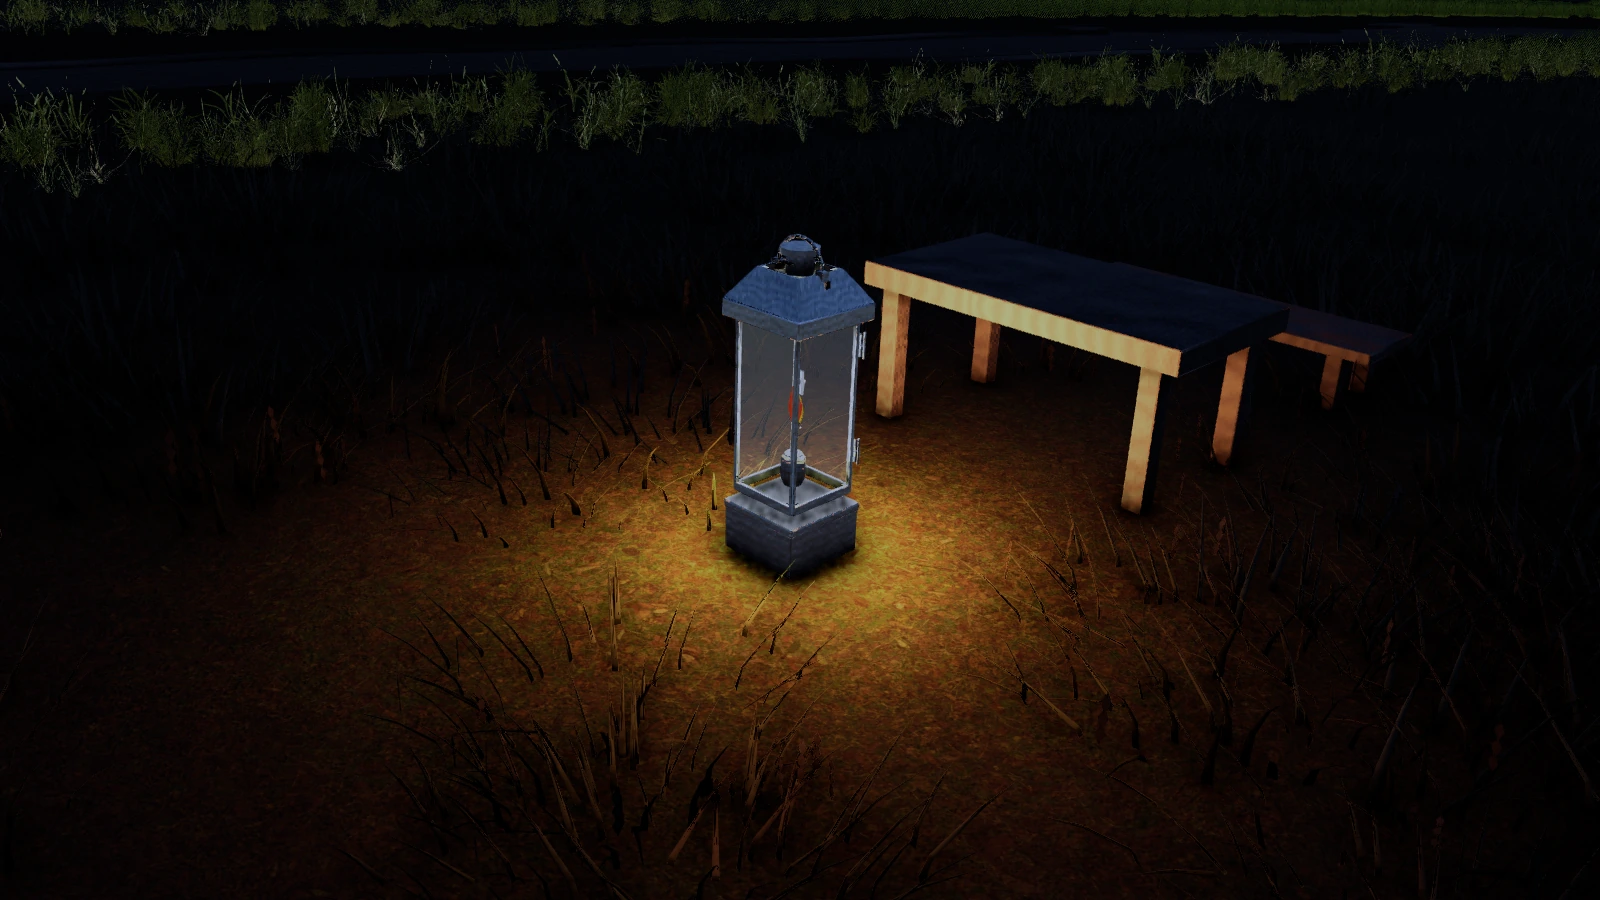
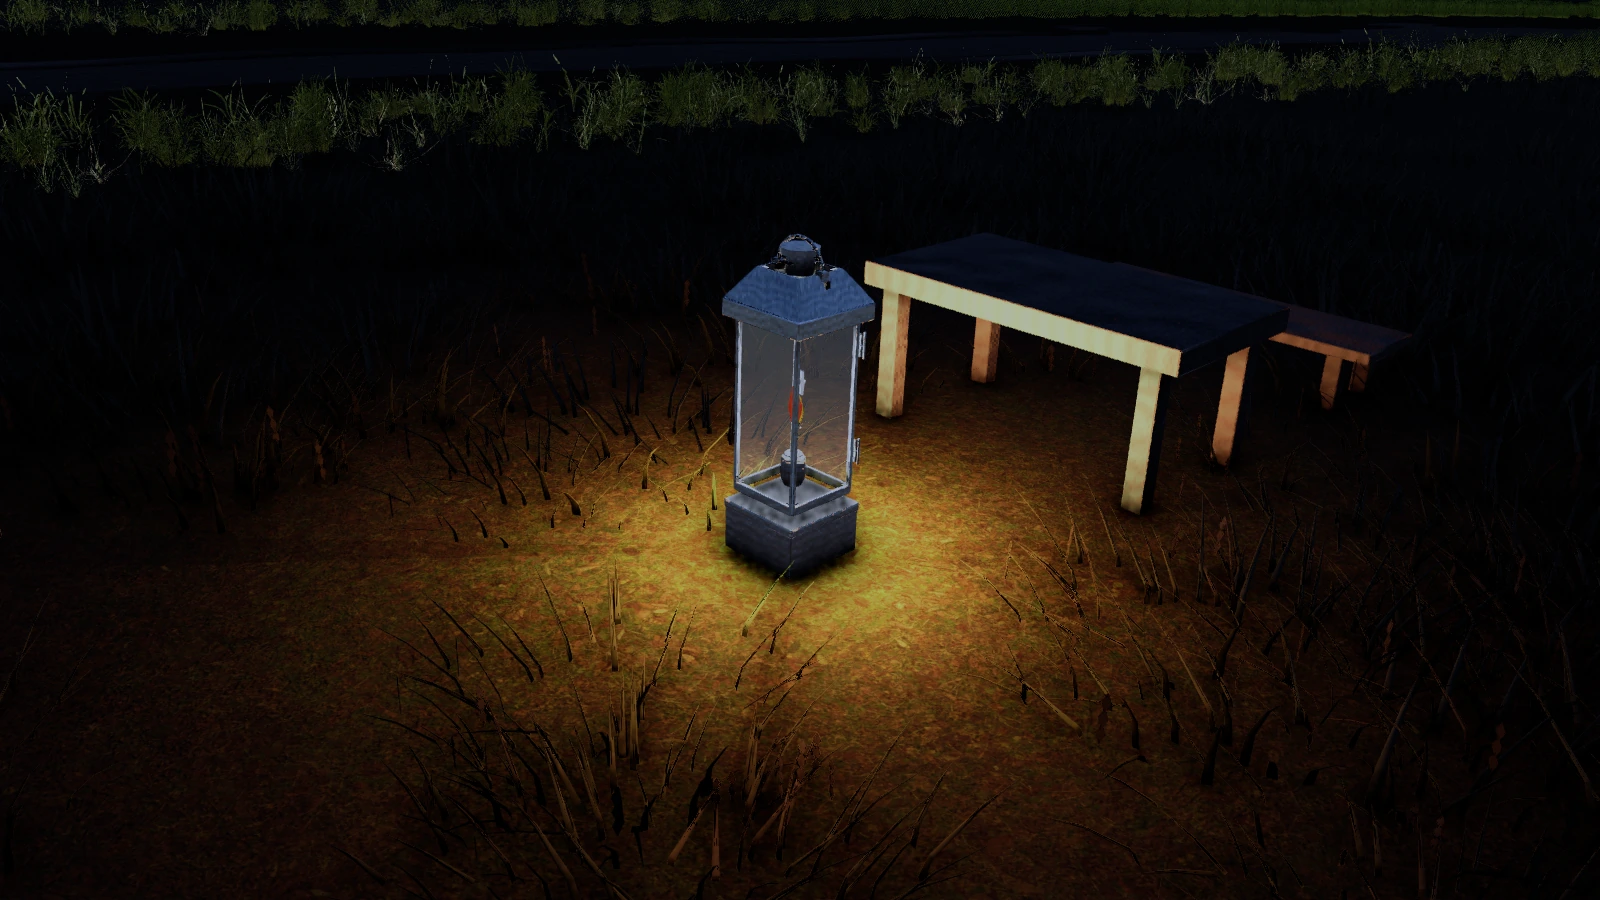
Refresh Unity lantern lighting showcase

Changed region(s): [[0.3125, 0.4978, 0.6875, 0.7778], [0.5312, 0.28, 0.7812, 0.56]]

diff --git a/site/world-battlefield.html b/site/world-battlefield.html
@@ -275,9 +275,9 @@ footer a{color:var(--gold)}
   <div><span class="eyebrow">Battlefield view</span><h3>Through the front ranks</h3><p>A Unity combat capture of a soldier firing amid smoke and fallen troops</p></div>
 </article><article class="battle-card">
   <a class="battle-image" href="images/gallery/night-lantern-camp.webp" aria-label="Open full size image: Camp lantern after dark">
-    <img src="images/gallery/night-lantern-camp.webp" alt="Camp lantern after dark — A current Unity night preview of the field lantern lighting nearby camp props while the battlefield stays dark" loading="lazy">
+    <img src="images/gallery/night-lantern-camp.webp" alt="Camp lantern after dark — Fresh Unity night capture of the field lantern and camp table, with warm local light, soft cast shadows, and a dark surrounding field" loading="lazy">
   </a>
-  <div><span class="eyebrow">Battlefield view</span><h3>Camp lantern after dark</h3><p>A current Unity night preview of the field lantern lighting nearby camp props while the battlefield stays dark</p></div>
+  <div><span class="eyebrow">Battlefield view</span><h3>Camp lantern after dark</h3><p>Fresh Unity night capture of the field lantern and camp table, with warm local light, soft cast shadows, and a dark surrounding field</p></div>
 </article><article class="battle-card">
   <a class="battle-image" href="images/gallery/battle-ground-line.webp" aria-label="Open full size image: Along the infantry line">
     <img src="images/gallery/battle-ground-line.webp" alt="Along the infantry line — Near-ground open-flank view along the 52nd Light Infantry line; each private carries a flintlock musket at order arms. Blender art study, not Unity gameplay" loading="lazy">
